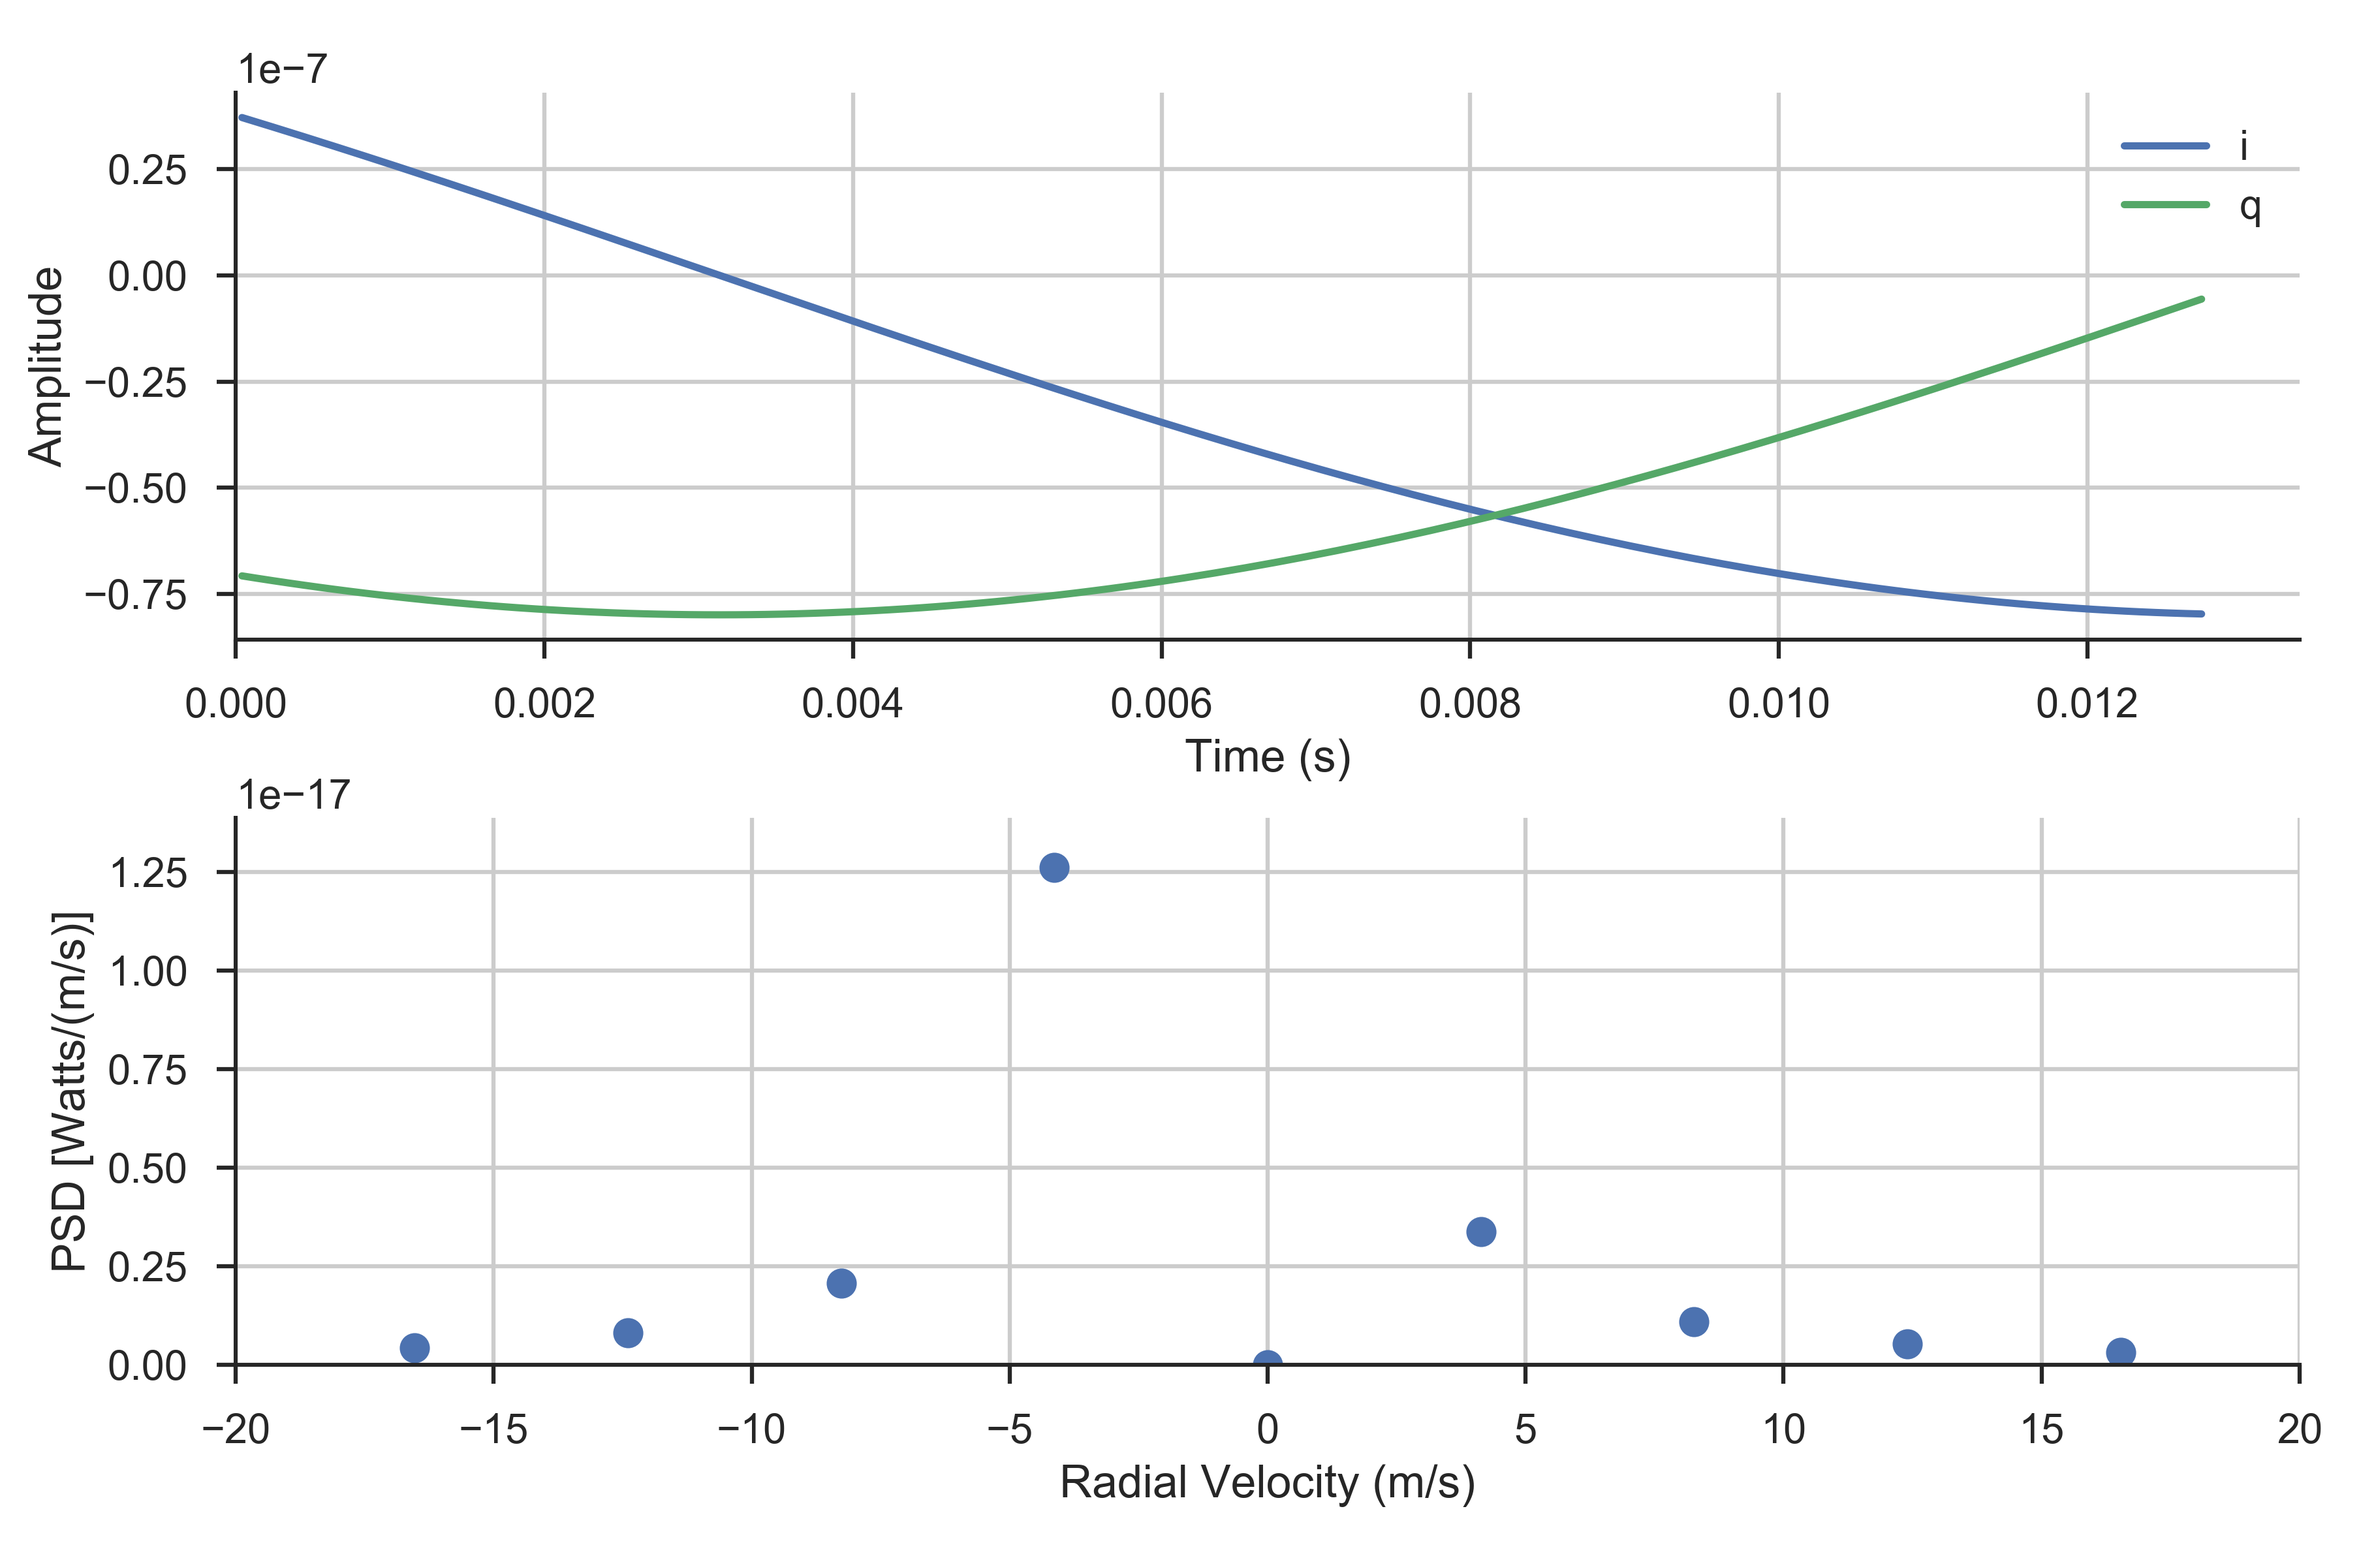
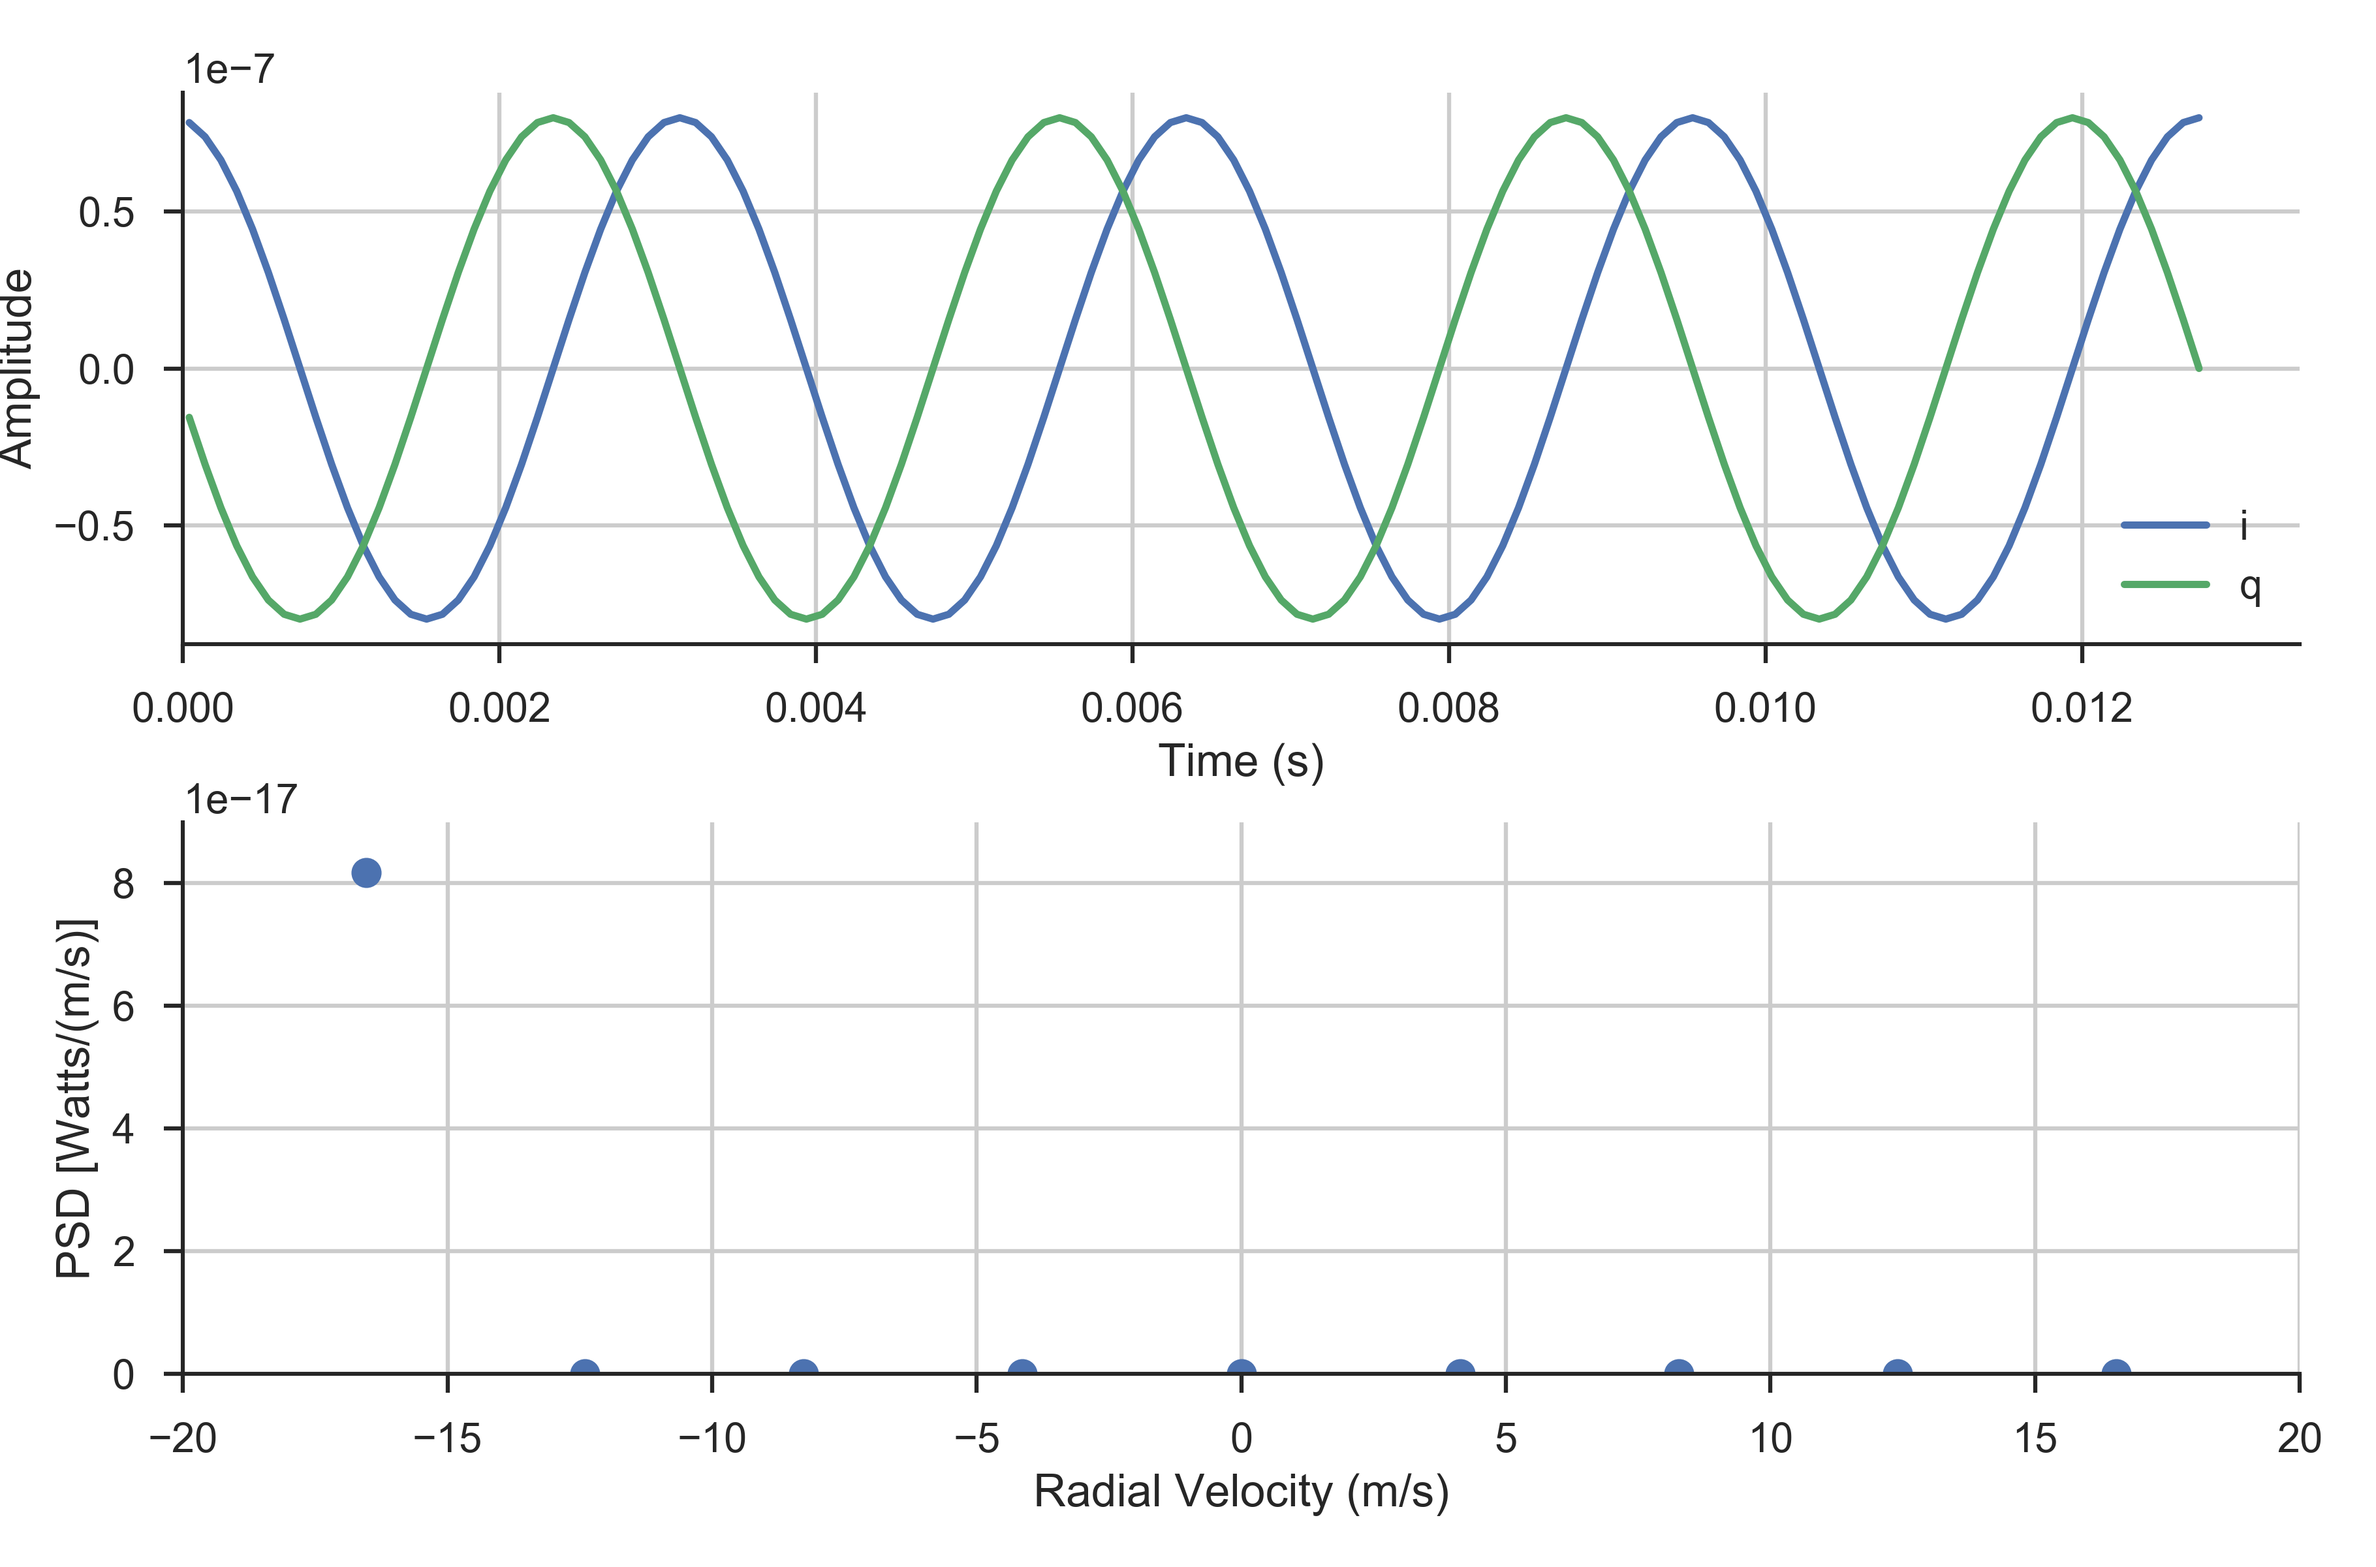
Update

diff --git a/main.py b/main.py
@@ -105,9 +105,9 @@ while ptNum < nPts:
 print("Initial Position %f, %f m" %(targetVals.initPosition().v[0], targetVals.initPosition().v[1] ))
 print("Final Position %f, %f m" %(targetLocation[0], targetLocation[1] ))
 print("Time on Target: %f s" %time)
-# helperFunctions.generatePt3q2Figures(integrateTime, iOut, qOut, returnPowerArr, 'approach')
+# helperFunctions.generatePt3q2Figures(integrateTime, iOut, qOut, returnPowerArr, 'recede')
 # helperFunctions.generatePt3q3Figures(integrateTime, iOut, qOut, 1/radarVals.tIpp().v, radarVals.wavelength().v, 'approach')
-helperFunctions.generatePt3q4Figures(integrateTime, iOut, qOut, 1/radarVals.tIpp().v, radarVals.wavelength().v, 'approach')
+helperFunctions.generatePt3q4Figures(integrateTime, iOut, qOut, 1/radarVals.tIpp().v, radarVals.wavelength().v, 'recede')
 
 '''
 #### ===== Print final values after simulation ===== ####

diff --git a/modelAttributes.py b/modelAttributes.py
@@ -52,7 +52,7 @@ class radarVals:
 
     class fftPts:
         def __init__(self):
-            self.v = 256
+            self.v = 128
             self.nameString = "Points used for FFT"
             self.units = "nPts"
  
@@ -80,7 +80,7 @@ class radarVals:
     
     class wavenumber:
         def __init__(self):
-            self.v = 1 / freq2lambda(radarVals.frequency().v)
+            self.v = (2 * np.pi) / freq2lambda(radarVals.frequency().v)
             self.nameString = "wavenumber"
             self.units = "1/m"
     
@@ -214,7 +214,7 @@ class targetVals:
 
     class attackAngle:
         def __init__(self):
-            self.v = 270
+            self.v = 90
             self.nameString = "Target angle of attack"
             self.units = "degrees"
 
